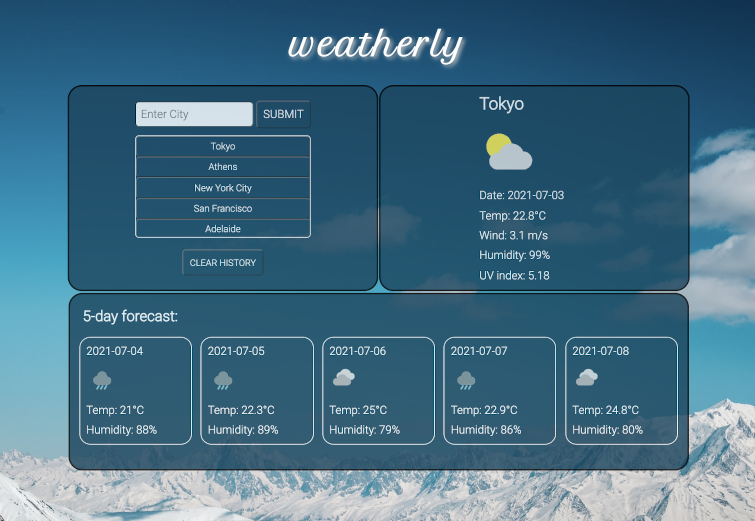
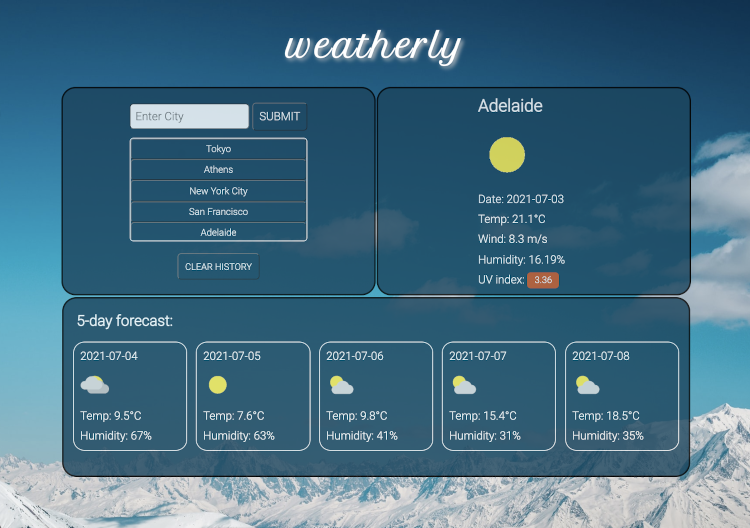
Update uv index value presentation and screenshot in readme

diff --git a/assets/script.js b/assets/script.js
@@ -59,7 +59,7 @@ function getCurrentWeather(city) {
       currentTempElement.html(`Temp: ${dataPool.temp}&deg;C`);
       currentWindElement.text(`Wind: ${currWind} m/s`);
       currentHumidityElement.text(`Humidity: ${currHumidity}%`);
-      currentUvElement.text(`UV index: ${currUv}`);
+      currentUvElement.html(`UV index: <span>${currUv}</span>`);
       let storableCity = dataPool.city_name;
       // We store city only if it is from submit route, not from history click.
       if (!historyClicked) {

diff --git a/assets/style.css b/assets/style.css
@@ -74,6 +74,13 @@ div {
   height: 80px;
 }
 
+#curr-loc-uv span {
+  background-color: #d74b00;
+  font-size: 0.8rem;
+  padding: 3px 10px;
+  border-radius: 5px;
+}
+
 form {
   width: 70%;
   text-align: center;
